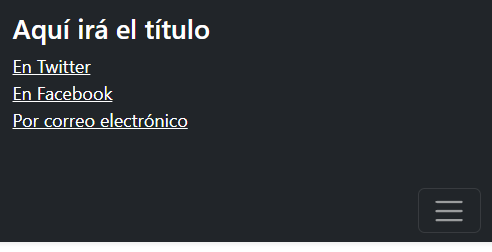
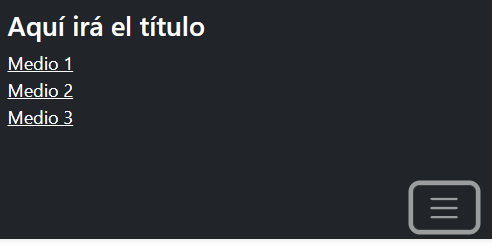
angular_bases

diff --git a/tutoriales/angular_bases.md b/tutoriales/angular_bases.md
@@ -81,7 +81,7 @@ Los componentes son las unidades básicas de una interfaz de usuario en una apli
     + Actualice el navegador o (re)inicie el servidor
     + Notará que al abrir la barra superior aparece la vista predeterminada del componente, con el texto: `contacto works!`.
 
-    ![angular componente contacto salida](imagenes/angular_componente_contacto_salida.png)
+    ![angular componente contacto salida1](imagenes/angular_componente_contacto_salida1.png)
     
 
   
@@ -92,9 +92,9 @@ Los componentes son las unidades básicas de una interfaz de usuario en una apli
     ```
     <h4 class="text-white">Aquí irá el título</h4>
     <ul class="list-unstyled">
-      <li><a href="#" class="text-white">En Twitter</a></li>
-      <li><a href="#" class="text-white">En Facebook</a></li>
-      <li><a href="#" class="text-white">Por correo electrónico</a></li>
+      <li><a href="#" class="text-white">Medio 1</a></li>
+      <li><a href="#" class="text-white">Medio 2</a></li>
+      <li><a href="#" class="text-white">Medio 3</a></li>
     </ul>
     ```
 
@@ -164,61 +164,48 @@ Directivas estructurales - (\*ngFor)
 
 Con esta directiva estructural [\*ngFor](https://angular.io/api/common/NgForOf) podemos repetir n veces un bloque de etiquetas.
 
-* En el **.ts** del componente
+* En el _.ts_ (el controlador) del componente **contacto**
 
-  + Agregue el atributo *terminos*, con su tipo, dentro de la clase
+    + Agregue el atributo *mecanismos*, dentro de la clase
 
     ```
       ...
-    export class CabeceraComponent {
+    export class ContactoComponent {
         ...
-        terminos:any[] = [
-          {
-          "palabra":"fork",
-          "significado":"Copia de un proyecto en una dirección distinta en el repositorio",
-          "enlace":"https://es.wikipedia.org/wiki/Bifurcación_(desarrollo_de_software)",
-          "autor":"Autor 1"
-          },
-          {
-          "palabra":"saas",
-          "significado":"'Software as a Service', mediante un navegador web se accede a 
-                    un software el cual se enceuntra alojado en servidores del proveedor",
-          "enlace":" http://www.portalsaas.com/que-es-saas-software-as-a-service.php",
-          "autor":"Autor 2"
-          },
+        medios:any[] = [
+          { "texto":"En Twitter"},
+          {"texto":"En Facebook"},
+          {"texto":"Por correo electrónico"}
         ]
       ...
     ```
 
-* En el **.html** del componente
+* En el _html_ (la vista) del componente **contacto**
   
-  + Agregue la plantilla de etiquetas HTML
-
+    + Reemplace el contenido por  
     ```
-    <div class="card-columns">
-
-      <!-- *ngFor -->
-      <div class="card" *ngFor="let termino of terminos">
-        <div class="card-body">
-           <!-- Enlace -->
-           <a href="#" class="card-link"  href="{% raw %} {{termino.enlace}} {% endraw %}" target="_blank">
-            <h5 class="card-title">
-              <!-- Palabra --> {% raw %} {{termino.palabra}} {% endraw %}
-            </h5>
-          </a>
-          <p class="card-text">    
-            <!-- Significado -->
-             {% raw %} {{termino.significado}} {% endraw %}
-          </p>
-          <h6 class="card-subtitle mb-2 text-muted text-right">  
-            <!-- Autor -->  {% raw %} {{termino.autor}} {% endraw %}
-          </h6>
-        </div>
-      </div>
-
-    </div>
+    <ul class="list-unstyled">
+      <li><a href="#" class="text-white">Medio 1</a></li>
+      <li><a href="#" class="text-white">Medio 2</a></li>
+      <li><a href="#" class="text-white">Medio 3</a></li>
+    </ul>
     ```
+
+    + Por
+    ```
+    <ul class="list-unstyled">
+      <li *ngFor="let medio of medios">
+        <a href="#" class="text-white">
+          {% raw %} {{medio.texto}} {% endraw %}
+        </a>
+      </li>
+    </ul>
+    ```
+
 * Actualice el navegador o (re)inicie el servidor
+* Notará que al abrir la barra superior aparece la vista modificada.
+
+    ![angular componente contacto salida4](imagenes/angular_componente_contacto_salida4.png)
 
 Referencias 
 ===========
